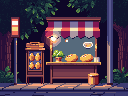
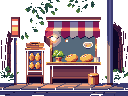
xom-dom-hong v0.8b BẢN ĐỒ 8-BIT ĐI ĐƯỢC: xóm rộng gấp rưỡi + máy quay chạy theo người chơi + nhà/quán/lều là ẢNH THẬT
- Xóm 960 → 1440 rộng, khung nhìn vẫn 960: đi tới đâu máy quay theo tới đó, xóm THẬT SỰ đi được chứ không còn là một tấm ảnh đứng yên
- 3 căn nhà cắt thẳng từ tấm xóm-ban-đêm 8-bit (0 lượt tạo mới), lều Bà Năm + tủ đồ + xe bánh mì là ảnh PixelLab, cỏ cũng cắt từ chính tấm đó cho khớp phong cách
- Xoá nền hộp đen quanh mọi vật thể bằng cách dò từ mép vào (giữ nguyên chi tiết bên trong)
- Trời + núi chạy suốt phía sau; trăng và lớp phủ đêm bám màn hình, không trôi theo bước chân
- Nhà XONG giờ TỐI CẢ CĂN thay vì dán 2 ô vuông lên cửa sổ (ảnh mới không còn cửa sổ ở toạ độ cũ)
- Vị trí tủ đồ / quán bánh mì / lều Bà Năm gom về một chỗ khai báo, dùng chung cho cả lúc dựng lẫn lúc dò khoảng cách — hết cảnh sửa một nơi quên một nơi
- KHÔNG đụng máy chấm, luật thắng thua, não AI, hướng dẫn 4 bước, hai chế độ
- Thêm 2 bài kiểm tự động: map-check.py (bản đồ có chạy theo không) + art-check.py
- Kiểm trên preview thật: bản đồ 7/7, hội thoại 11/11, 0 lỗi console, 0 request hỏng
- Lượt dùng thử PixelLab: 39/40 (còn 1)
- LIVE nhin-8bit.xom-dom-hong.pages.dev · link chính KHÔNG đụng

diff --git a/game/public/js/game.js b/game/public/js/game.js
@@ -1,20 +1,47 @@
 // Phaser 3 neighborhood: WASD/touch walk, 3 houses, wardrobe shed, decorative food cart.
 (function () {
-  const W = 960, H = 640;
+  // W = khung nhìn (đúng bằng màn hình). WW = XÓM THẬT, rộng gấp rưỡi — người chơi đi tới đâu
+  // máy quay chạy theo tới đó, nên xóm có cảm giác ĐI ĐƯỢC chứ không phải một tấm ảnh đứng yên.
+  const W = 960, H = 640, WW = 1440;
+  const HX = [230, 700, 1180];              // 3 nhà, trải đều theo chiều rộng mới
+  const POS = { shed: [170, 500], cart: [1250, 500], hut: [700, 505] };
 
   class Xom extends Phaser.Scene {
     constructor() { super('xom'); }
+
+    // v0.8: nạp hình 8-bit thật. Hỏng tấm nào thì makeTextures() vẽ lại tấm đó bằng code,
+    // bản đồ không bao giờ trống.
+    preload() {
+      const A = 'assets/art/bg/';
+      this.load.image('h0', A + 'house0.png');
+      this.load.image('h1', A + 'house1.png');
+      this.load.image('h2', A + 'house2.png');
+      this.load.image('sky', A + 'sky.png');
+      this.load.image('cartimg', A + 'cart.png');
+      this.load.image('grassimg', A + 'grass.png');
+      this.load.image('grassimg2', A + 'grass2.png');
+      this.load.image('hutimg', A + 'hut.png');
+      this.load.image('shedimg', A + 'shed.png');
+    }
 
     create() {
       this.player = null;      // scene.restart(): quên con sói của lượt dựng trước, nếu không
       this.makeTextures();     // drawWolfTex sẽ gọi setTexture lên một sprite đã bị huỷ
 
-      // ground
-      for (let x = 0; x < W; x += 32)
+      // ground — v0.8: cỏ pixel cắt từ chính tấm xóm-ban-đêm, cho khớp với mấy căn nhà
+      const gA = this.textures.exists('grassimg') ? 'grassimg' : 'grass';
+      const gB = this.textures.exists('grassimg2') ? 'grassimg2' : 'grass2';
+      for (let x = 0; x < WW; x += 32)
         for (let y = 0; y < H; y += 32)
-          this.add.image(x + 16, y + 16, (x / 32 + y / 32) % 2 ? 'grass' : 'grass2');
+          this.add.image(x + 16, y + 16, (x / 32 + y / 32) % 2 ? gA : gB).setDepth(-10);
       // road strip
-      for (let x = 0; x < W; x += 32) this.add.image(x + 16, H / 2 + 16, 'road');
+      for (let x = 0; x < WW; x += 32) this.add.image(x + 16, H / 2 + 16, 'road').setDepth(-9);
+
+      // v0.8: dải trời + núi 8-bit chạy suốt phía sau xóm (cắt ra từ chính tấm xóm-ban-đêm)
+      if (this.textures.exists('sky')) {
+        const sky = this.add.image(WW / 2, 150, 'sky').setDepth(-8);
+        sky.setDisplaySize(WW, 300);
+      }
 
       // §2 sky clock: the moon IS the night timer — it arcs across, sky brightens, dawn ends the night.
       // v0.3: mode Kẹt Tiền dùng ĐÚNG đồng hồ đó, chỉ đổi mặt trăng → MẶT TRỜI, bình minh → hoàng hôn.
@@ -23,18 +50,18 @@
         this.add.circle(0, 0, kt ? 56 : 34, kt ? 0xffd24a : 0xfff3c4).setAlpha(kt ? 0.14 : 0.95),
         this.add.circle(0, 0, 34, kt ? 0xffd24a : 0xfff3c4).setAlpha(0.95),
         this.add.circle(-12, -8, 30, 0x0d0a14).setAlpha(kt ? 0 : 0.25)
-      ]).setDepth(51);
+      ]).setDepth(51).setScrollFactor(0);        // v0.8: trăng thuộc về BẦU TRỜI, không trôi theo bước chân
       // ma sói: bóng tối đậm nhất giữa đêm · kẹt tiền: nắng sáng nhất giữa trưa
-      this.nightShade = this.add.rectangle(W / 2, H / 2, W, H, kt ? 0xffe9a8 : 0x060312).setAlpha(0).setDepth(50);
-      this.dawnGlow = this.add.rectangle(W / 2, H / 2, W, H, 0xff9a3d).setAlpha(0).setDepth(50);
+      this.nightShade = this.add.rectangle(W / 2, H / 2, W, H, kt ? 0xffe9a8 : 0x060312).setAlpha(0).setDepth(50).setScrollFactor(0);
+      this.dawnGlow = this.add.rectangle(W / 2, H / 2, W, H, 0xff9a3d).setAlpha(0).setDepth(50).setScrollFactor(0);
 
       // §6b map dressing: lamp posts along the road + fireflies (the game is NAMED after them!)
-      [240, 720].forEach(x => {
+      [300, 760, 1220].forEach(x => {
         this.add.image(x, H / 2 - 14, 'lamp');
         this.add.circle(x + 9, H / 2 - 44, 26, 0xffe9a8).setAlpha(0.13);
       });
-      for (let i = 0; i < 14; i++) {
-        const fx = 40 + Math.random() * (W - 80), fy = 60 + Math.random() * (H - 120);
+      for (let i = 0; i < 22; i++) {                       // xóm rộng hơn → thả thêm đom đóm
+        const fx = 40 + Math.random() * (WW - 80), fy = 60 + Math.random() * (H - 120);
         const f = this.add.circle(fx, fy, 2, 0xffe98a).setAlpha(0.85).setDepth(52);
         this.tweens.add({
           targets: f, alpha: 0.1, duration: 600 + Math.random() * 900,
@@ -50,21 +77,20 @@
 
       // houses (top row) — door zones
       this.houseSprites = [];
-      const hx = [170, 480, 790];
+      const hx = HX;
       hx.forEach((x, i) => {
-        const s = this.add.image(x, 170, 'house' + i);
+        const s = this.add.image(x, 170, this.textures.exists('h' + i) ? 'h' + i : 'house' + i);
         const npc = XDH.NPCS[XDH.run.houses[i].npcIdx];
         const diff = XDH.DIFFICULTY[npc.id];
         const label = (diff ? diff.stars + ' ' : '') + 'Nhà ' + npc.name.split(' (')[0] + (diff ? ' · ' + diff.level : '');
         this.add.text(x, 258, label, { fontSize: '14px', color: '#f2ecff', fontFamily: 'Segoe UI' }).setOrigin(0.5);
         // Done marker (Lucas 08-09): finished house = lights OUT + ✅ tag, readable from anywhere.
-        const wd1 = this.add.rectangle(x - 36, 183, 28, 26, 0x241e35).setAlpha(0.94).setVisible(false);
-        const wd2 = this.add.rectangle(x + 36, 183, 28, 26, 0x241e35).setAlpha(0.94).setVisible(false);
+        // v0.8: nhà giờ là ẢNH nên không dán ô vuông lên cửa sổ nữa — làm TỐI CẢ CĂN NHÀ (update()).
         const tag = this.add.text(x, 88, '✅ XONG', {
           fontSize: '13px', color: '#5dffa4', fontFamily: 'Segoe UI', fontStyle: 'bold',
           backgroundColor: 'rgba(10,6,18,0.75)', padding: { x: 6, y: 3 }
         }).setOrigin(0.5).setVisible(false).setDepth(52);
-        this.houseSprites.push({ x, y: 220, id: i, sprite: s, doneFx: [wd1, wd2, tag] });
+        this.houseSprites.push({ x, y: 220, id: i, sprite: s, doneFx: [tag] });
       });
       // §6b: identical houses → per-resident dressing (Ly neon · Tí bóng đá · Cô Sáu phơi đồ)
       this.add.rectangle(hx[0] - 62, 168, 10, 34, 0xff5dd2).setAlpha(0.9);        // Ly: neon strip
@@ -76,10 +102,12 @@
       this.add.rectangle(hx[2] - 36, 138, 10, 14, 0x8fd4ff);
 
       // wardrobe shed (bottom-left) + bánh mì cart = the powerup shop (§2)
-      this.add.image(120, 500, 'shed');
-      this.add.text(120, 552, '🎽 Tủ đồ', { fontSize: '14px', color: '#ffb547', fontFamily: 'Segoe UI' }).setOrigin(0.5);
-      this.add.image(820, 500, 'cart');
-      this.add.text(820, 556, kt ? '🍜 Quán bánh mì — ĂN Ở ĐÂY' : '🍞 Bánh mì đêm — MỞ CỬA',
+      const shedImg = this.add.image(POS.shed[0], POS.shed[1], this.textures.exists('shedimg') ? 'shedimg' : 'shed');
+      if (this.textures.exists('shedimg')) shedImg.setDisplaySize(150, 112);
+      this.add.text(POS.shed[0], POS.shed[1] + 52, '🎽 Tủ đồ', { fontSize: '14px', color: '#ffb547', fontFamily: 'Segoe UI' }).setOrigin(0.5);
+      const cartImg = this.add.image(POS.cart[0], POS.cart[1], this.textures.exists('cartimg') ? 'cartimg' : 'cart');
+      if (this.textures.exists('cartimg')) cartImg.setDisplaySize(160, 120);
+      this.add.text(POS.cart[0], POS.cart[1] + 56, kt ? '🍜 Quán bánh mì — ĂN Ở ĐÂY' : '🍞 Bánh mì đêm — MỞ CỬA',
         { fontSize: '12px', color: '#ffb547', fontFamily: 'Segoe UI' }).setOrigin(0.5);
 
       // §0 #6: Bà Năm's tutorial hut — mid-bottom, free scripted practice house.
@@ -87,18 +115,22 @@
       // Kẹt Tiền dùng kịch bản riêng, kết bằng bà cho tiền (không có nút CẮN).
       this.hasTut = true;
       if (this.hasTut) {
-        this.add.image(480, 505, 'hut');
-        this.add.text(480, 560, '👵 Nhà Bà Năm — học nghề', { fontSize: '13px', color: '#ffb547', fontFamily: 'Segoe UI' }).setOrigin(0.5);
-        this.tutDoneTag = this.add.text(480, 452, '✔ đã học nghề', {
+        const hutImg = this.add.image(POS.hut[0], POS.hut[1], this.textures.exists('hutimg') ? 'hutimg' : 'hut');
+        if (this.textures.exists('hutimg')) hutImg.setDisplaySize(150, 112);
+        this.add.text(POS.hut[0], POS.hut[1] + 55, '👵 Nhà Bà Năm — học nghề', { fontSize: '13px', color: '#ffb547', fontFamily: 'Segoe UI' }).setOrigin(0.5);
+        this.tutDoneTag = this.add.text(POS.hut[0], POS.hut[1] - 53, '✔ đã học nghề', {
           fontSize: '12px', color: '#5dffa4', fontFamily: 'Segoe UI',
           backgroundColor: 'rgba(10,6,18,0.75)', padding: { x: 5, y: 2 }
         }).setOrigin(0.5).setDepth(52).setVisible(!!localStorage.getItem('xdh_tut_done'));
       }
 
       // player wolf
-      this.player = this.physics.add.sprite(W / 2, H / 2 + 20, 'wolf');
+      this.player = this.physics.add.sprite(WW / 2, H / 2 + 20, 'wolf');
       this.player.setCollideWorldBounds(true).setScale(2);
-      this.physics.world.setBounds(0, 0, W, H);
+      this.physics.world.setBounds(0, 0, WW, H);
+      // v0.8: MÁY QUAY ĐI THEO NGƯỜI CHƠI — xóm rộng hơn màn hình, đi tới đâu thấy tới đó.
+      this.cameras.main.setBounds(0, 0, WW, H);
+      this.cameras.main.startFollow(this.player, true, 0.12, 0.12);
       XDH.applyAvatar = () => this.drawWolfTex();
       // v0.3 B1: chọn chế độ xong thì dựng lại bản đồ (mặt trời/mặt trăng, nhà Bà Năm, biển quán).
       XDH.restartScene = () => this.scene.restart();
@@ -107,7 +139,7 @@
       XDH.curtainPeek = (houseId) => {
         const h = this.houseSprites[houseId];
         if (!h) return;
-        const wx = h.x - 36, wy = 183;   // left window of the house sprite
+        const wx = h.x - 30, wy = 196;   // v0.8: sau tấm rèm cửa sổ của căn nhà 8-bit
         const eyes = this.add.container(wx, wy + 14, [
           this.add.rectangle(0, 0, 22, 14, 0xf7c99b),
           this.add.rectangle(-5, -1, 3, 4, 0x221a12),
@@ -130,7 +162,7 @@
         this.chaseText = this.add.text(W / 2, 40, '🚨 CHẠY!! 10s', {
           fontSize: '22px', color: '#ff5d73', fontFamily: 'Segoe UI', fontStyle: 'bold',
           backgroundColor: 'rgba(10,6,18,0.8)', padding: { x: 12, y: 6 }
-        }).setOrigin(0.5).setDepth(60);
+        }).setOrigin(0.5).setDepth(60).setScrollFactor(0);   // v0.8: chữ CHẠY bám màn hình, không trôi
         XDH.UI.toast('🚨 GỌI CÔNG AN RỒI — CHẠY ĐI!!', 3000);
         XDH.Blips.jingle('lose');
       };
@@ -279,7 +311,12 @@
       // Done markers reflect tonight's state (auto reset when a new night begins)
       for (const h of this.houseSprites) {
         const st = XDH.run.houses[h.id];
-        h.doneFx.forEach(o => o.setVisible(!!(st.won || st.done)));   // v0.3: mode Kẹt Tiền dùng cờ done
+        const done = !!(st.won || st.done);                           // v0.3: mode Kẹt Tiền dùng cờ done
+        h.doneFx.forEach(o => o.setVisible(done));
+        if (h.wasDone !== done) {                                     // v0.8: xong = TẮT ĐÈN cả căn nhà
+          done ? h.sprite.setTint(0x5a5a7a) : h.sprite.clearTint();
+          h.wasDone = done;
+        }
       }
       if (this.tutDoneTag) this.tutDoneTag.setVisible(!!localStorage.getItem('xdh_tut_done'));
       if (XDH.Convo.isActive() || XDH.Tut.isActive() || document.querySelector('.overlay.show')) {
@@ -324,20 +361,20 @@
           break;
         }
       }
-      if (!this.nearTarget && Phaser.Math.Distance.Between(px, py, 120, 500) < 80) {
+      if (!this.nearTarget && Phaser.Math.Distance.Between(px, py, POS.shed[0], POS.shed[1]) < 80) {
         this.nearTarget = 'wardrobe';
         promptText = '🎽 Mở tủ đồ (E)';
-        tx = 120; ty = 440;
+        tx = POS.shed[0]; ty = POS.shed[1] - 60;
       }
-      if (!this.nearTarget && Phaser.Math.Distance.Between(px, py, 820, 500) < 80) {
+      if (!this.nearTarget && Phaser.Math.Distance.Between(px, py, POS.cart[0], POS.cart[1]) < 80) {
         this.nearTarget = 'shop';
         promptText = XDH.isKetTien() ? '🍜 Quán bánh mì — ăn (E)' : '🍞 Quầy bánh mì (E)';
-        tx = 820; ty = 440;
+        tx = POS.cart[0]; ty = POS.cart[1] - 60;
       }
-      if (!this.nearTarget && this.hasTut && Phaser.Math.Distance.Between(px, py, 480, 505) < 80) {
+      if (!this.nearTarget && this.hasTut && Phaser.Math.Distance.Between(px, py, POS.hut[0], POS.hut[1]) < 80) {
         this.nearTarget = 'tutorial';
         promptText = '👵 Học nghề với Bà Năm (E)';
-        tx = 480; ty = 445;
+        tx = POS.hut[0]; ty = POS.hut[1] - 60;
       }
       if (this.nearTarget) {
         this.prompt.setText(promptText).setPosition(tx, ty).setVisible(true);

diff --git a/game/tools/map-check.py b/game/tools/map-check.py
@@ -1,0 +1,59 @@
+# v0.8b — kiem BAN DO 8-BIT DI DUOC: nha la anh that, may quay chay theo nguoi choi.
+# Chay: py game/tools/map-check.py [BASE_URL]
+import sys, asyncio
+sys.stdout.reconfigure(encoding="utf-8")
+from playwright.async_api import async_playwright
+
+BASE = sys.argv[1] if len(sys.argv) > 1 else "https://nhin-8bit.xom-dom-hong.pages.dev"
+ART = ["/assets/art/bg/house0.png", "/assets/art/bg/house1.png",
+       "/assets/art/bg/house2.png", "/assets/art/bg/sky.png"]
+
+async def main():
+    errors, failed, steps = [], [], []
+    async with async_playwright() as p:
+        b = await p.chromium.launch()
+        ctx = await b.new_context(viewport={"width": 1280, "height": 800})
+        pg = await ctx.new_page()
+        pg.on("console", lambda m: errors.append(m.text) if m.type == "error" else None)
+        pg.on("pageerror", lambda e: errors.append("pageerror: " + str(e)))
+        pg.on("requestfailed", lambda r: failed.append(r.url))
+
+        for path in ART:
+            r = await ctx.request.get(BASE + path)
+            steps.append(("OK  " if r.status == 200 else "FAIL") + f" tai duoc {path} ({r.status})")
+
+        await pg.goto(BASE + "?tut=0", wait_until="networkidle")
+        for sel, label in [("#pick-vi", "chon tieng Viet"), ("#btn-start", "bat dau")]:
+            try:
+                await pg.click(sel, timeout=8000); await pg.wait_for_timeout(1200)
+                steps.append(f"OK   {label}")
+            except Exception as e:
+                steps.append(f"FAIL {label}: {str(e)[:70]}")
+        await pg.wait_for_timeout(2200)
+
+        cam = "(()=>{const s=window.Phaser&&Phaser.Game?null:null; return null})()"
+        # doc vi tri may quay qua canvas -> dung cach khac: chup 2 tam roi so sanh
+        before = await pg.screenshot(path="game/shots/v08b-map-left.png")
+        for _ in range(60):
+            await pg.keyboard.press("ArrowRight"); await pg.wait_for_timeout(30)
+        await pg.wait_for_timeout(900)
+        after = await pg.screenshot(path="game/shots/v08b-map-right.png")
+        steps.append(("OK   " if before != after else "FAIL ") + "ban do CHAY THEO khi di sang phai")
+
+        # di tiep toi quan banh mi o ria phai
+        for _ in range(40):
+            await pg.keyboard.press("ArrowRight"); await pg.wait_for_timeout(28)
+        await pg.wait_for_timeout(800)
+        await pg.screenshot(path="game/shots/v08b-map-far.png")
+        await b.close()
+
+    print(f"=== KIEM BAN DO — {BASE} ===")
+    for s in steps: print("  " + s)
+    print(f"  loi console: {len(errors)}")
+    for e in errors[:5]: print("    - " + e[:110])
+    print(f"  request hong: {len(failed)}")
+    for f in failed[:5]: print("    - " + f[:110])
+    bad = sum(1 for s in steps if s.startswith("FAIL"))
+    print(f"KET QUA: {'DAT' if bad == 0 and not errors else 'CHUA DAT'} ({bad} muc hong, {len(errors)} loi)")
+
+asyncio.run(main())

diff --git a/game/tools/art-check.py b/game/tools/art-check.py
@@ -41,16 +41,18 @@ async def main():
         await pg.wait_for_timeout(2000)
         await pg.screenshot(path="game/shots/v08-map.png")
 
-        # 3) di len phia nha Ly roi go cua
-        for _ in range(28):
+        # 3) v0.8: nguoi choi dung giua xom (WW/2=720), nha Ti ngay phia tren (x=700) -> chi can di len
+        for _ in range(30):
             await pg.keyboard.press("ArrowUp"); await pg.wait_for_timeout(45)
-        for _ in range(22):
-            await pg.keyboard.press("ArrowLeft"); await pg.wait_for_timeout(45)
         await pg.wait_for_timeout(700)
-        await pg.keyboard.press("Space")
-        await pg.wait_for_timeout(2500)
-
-        shown = await pg.evaluate("!!document.querySelector('#convo.show')")
+        shown = False
+        for attempt in range(4):                 # go cua may lan cho chac (khoang cach <90px)
+            await pg.keyboard.press("Space")
+            await pg.wait_for_timeout(2200)
+            shown = await pg.evaluate("!!document.querySelector('#convo.show')")
+            if shown: break
+            for _ in range(4):
+                await pg.keyboard.press("ArrowUp"); await pg.wait_for_timeout(50)
         steps.append(("OK   " if shown else "FAIL ") + "man hoi thoai mo ra")
 
         if shown:
